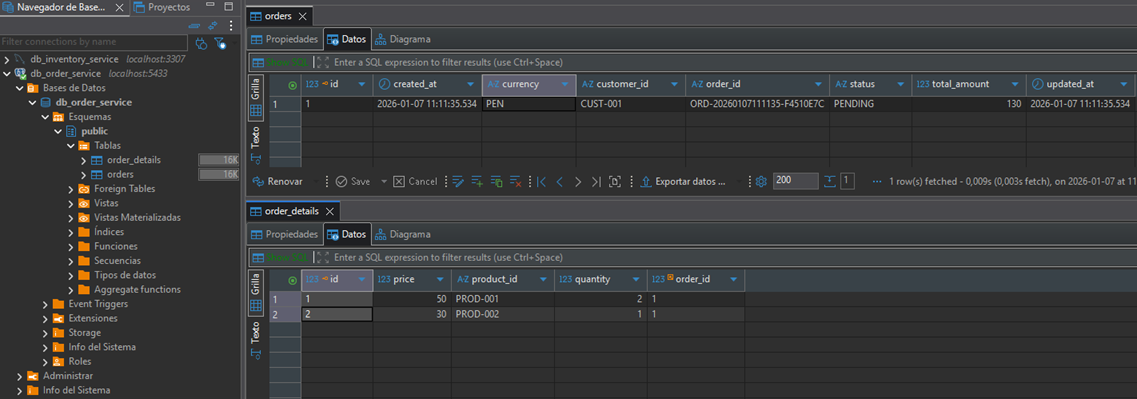
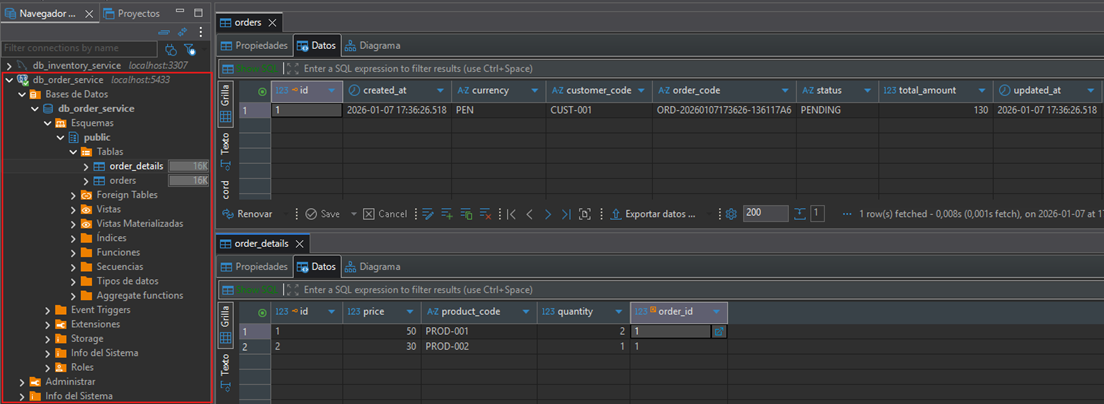
Probando Order Service

Changed region(s): [[0.0, 0.0, 1.0, 1.0]]

diff --git a/README.md b/README.md
@@ -1311,8 +1311,6 @@ public class OrderController {
 }
 ````
 
-------------------------------------------------------------------------------------------------------------------------
-
 ## Probando Order Service
 
 Luego de ejecutar la aplicación exitosamente, vemos que se nos crea el topic `order.created` en el cluster de
@@ -1325,8 +1323,8 @@ order.created
 
 Como hasta el momento no tenemos ningún consumidor que esté pendiente del topic `order.created` dentro de los archivos
 de instalación de Kafka, en nuestro caso, dentro del contenedor de kafka, viene el script de shell llamado
-`kafka-console-consumer.sh` que nos ayudará a realizar el consumo. Así que ejecutamos el siguiente comando en consola
-y veremos que nuestra consola se queda esperando por los mensajes:
+`kafka-console-consumer.sh` que nos ayudará a realizar el consumo de de eventos según el topic que especifiquemos.
+Así que ejecutamos el siguiente comando en consola y veremos que nuestra consola se queda esperando por los mensajes:
 
 ````bash
 $ docker container exec -it c-kafka-saga /opt/kafka/bin/kafka-console-consumer.sh --topic order.created --bootstrap-server localhost:9092
@@ -1335,30 +1333,30 @@ $ docker container exec -it c-kafka-saga /opt/kafka/bin/kafka-console-consumer.s
 ### Creación de una orden
 
 ````bash
-$ curl -v -X POST -H "Content-type: application/json" -d "{\"customerId\": \"CUST-001\", \"currency\": \"PEN\", \"items\": [{\"productId\": \"PROD-001\", \"quantity\": 2, \"price\": 50.00}, {\"productId\": \"PROD-002\", \"quantity\": 1, \"price\": 30.00}]}" http://localhost:8081/api/v1/orders | jq
+$ curl -v -X POST -H "Content-type: application/json" -d "{\"customerCode\": \"CUST-001\", \"currency\": \"PEN\", \"items\": [{\"productCode\": \"PROD-001\", \"quantity\": 2, \"price\": 50.00}, {\"productCode\": \"PROD-002\", \"quantity\": 1, \"price\": 30.00}]}" http://localhost:8081/api/v1/orders | jq
 >
 < HTTP/1.1 202
 < Content-Type: application/json
 < Transfer-Encoding: chunked
-< Date: Wed, 07 Jan 2026 16:11:35 GMT
+< Date: Wed, 07 Jan 2026 22:36:26 GMT
 <
 {
-  "orderId": "ORD-20260107111135-F4510E7C",
-  "customerId": "CUST-001",
+  "orderCode": "ORD-20260107173626-136117A6",
+  "customerCode": "CUST-001",
   "totalAmount": 130.00,
   "currency": "PEN",
   "status": "PENDING",
-  "createdAt": "2026-01-07T11:11:35.534419",
-  "updatedAt": "2026-01-07T11:11:35.534419",
+  "createdAt": "2026-01-07T17:36:26.518543",
+  "updatedAt": "2026-01-07T17:36:26.518543",
   "items": [
     {
-      "productId": "PROD-001",
+      "productCode": "PROD-001",
       "quantity": 2,
       "price": 50.00,
       "subtotal": 100.00
     },
     {
-      "productId": "PROD-002",
+      "productCode": "PROD-002",
       "quantity": 1,
       "price": 30.00,
       "subtotal": 30.00
@@ -1370,172 +1368,81 @@ $ curl -v -X POST -H "Content-type: application/json" -d "{\"customerId\": \"CUS
 Verificamos el log del IDE de IntelliJ IDEA
 
 ````bash
-2026-01-07T11:11:35.487-05:00  INFO 22132 --- [order-service] [nio-8081-exec-4] d.m.o.app.controller.OrderController     : Se recibió una solicitud de creación de orden para el cliente: CUST-001
-2026-01-07T11:11:35.496-05:00  INFO 22132 --- [order-service] [nio-8081-exec-4] d.m.o.app.service.impl.OrderServiceImpl  : Creando order para cliente: CUST-001
-2026-01-07T11:11:35.541-05:00 DEBUG 22132 --- [order-service] [nio-8081-exec-4] org.hibernate.SQL                        : 
+2026-01-07T17:36:26.477-05:00  INFO 12640 --- [order-service] [nio-8081-exec-1] d.m.o.app.controller.OrderController     : Se recibió una solicitud de creación de orden para el cliente: CUST-001
+2026-01-07T17:36:26.486-05:00  INFO 12640 --- [order-service] [nio-8081-exec-1] d.m.o.app.service.impl.OrderServiceImpl  : Creando order para cliente: CUST-001
+2026-01-07T17:36:26.525-05:00 DEBUG 12640 --- [order-service] [nio-8081-exec-1] org.hibernate.SQL                        : 
     insert 
     into
         orders
-        (created_at, currency, customer_id, order_id, status, total_amount, updated_at) 
+        (created_at, currency, customer_code, order_code, status, total_amount, updated_at) 
     values
         (?, ?, ?, ?, ?, ?, ?)
-2026-01-07T11:11:35.583-05:00 DEBUG 22132 --- [order-service] [nio-8081-exec-4] org.hibernate.SQL                        : 
+2026-01-07T17:36:26.560-05:00 DEBUG 12640 --- [order-service] [nio-8081-exec-1] org.hibernate.SQL                        : 
     insert 
     into
         order_details
-        (order_id, price, product_id, quantity) 
+        (order_id, price, product_code, quantity) 
     values
         (?, ?, ?, ?)
-2026-01-07T11:11:35.586-05:00 DEBUG 22132 --- [order-service] [nio-8081-exec-4] org.hibernate.SQL                        : 
+2026-01-07T17:36:26.563-05:00 DEBUG 12640 --- [order-service] [nio-8081-exec-1] org.hibernate.SQL                        : 
     insert 
     into
         order_details
-        (order_id, price, product_id, quantity) 
+        (order_id, price, product_code, quantity) 
     values
         (?, ?, ?, ?)
-2026-01-07T11:11:35.589-05:00  INFO 22132 --- [order-service] [nio-8081-exec-4] d.m.o.app.service.impl.OrderServiceImpl  : Orden creado con ID 1 y con orderId ORD-20260107111135-F4510E7C
-2026-01-07T11:11:35.611-05:00  INFO 22132 --- [order-service] [nio-8081-exec-4] o.a.k.clients.producer.ProducerConfig    : ProducerConfig values: 
+2026-01-07T17:36:26.567-05:00  INFO 12640 --- [order-service] [nio-8081-exec-1] d.m.o.app.service.impl.OrderServiceImpl  : Orden creado con ID: 1 | con orderCode: ORD-20260107173626-136117A6
+2026-01-07T17:36:26.585-05:00  INFO 12640 --- [order-service] [nio-8081-exec-1] o.a.k.clients.producer.ProducerConfig    : ProducerConfig values: 
 	acks = -1
 	auto.include.jmx.reporter = true
-	batch.size = 16384
-	bootstrap.servers = [localhost:9092]
-	buffer.memory = 33554432
-	client.dns.lookup = use_all_dns_ips
-	client.id = order-service-producer-1
-	compression.gzip.level = -1
-	compression.lz4.level = 9
-	compression.type = none
-	compression.zstd.level = 3
-	connections.max.idle.ms = 540000
-	delivery.timeout.ms = 120000
-	enable.idempotence = true
-	enable.metrics.push = true
-	interceptor.classes = []
-	key.serializer = class org.apache.kafka.common.serialization.StringSerializer
-	linger.ms = 0
-	max.block.ms = 60000
-	max.in.flight.requests.per.connection = 5
-	max.request.size = 1048576
-	metadata.max.age.ms = 300000
-	metadata.max.idle.ms = 300000
-	metadata.recovery.strategy = none
-	metric.reporters = []
-	metrics.num.samples = 2
-	metrics.recording.level = INFO
-	metrics.sample.window.ms = 30000
-	partitioner.adaptive.partitioning.enable = true
-	partitioner.availability.timeout.ms = 0
-	partitioner.class = null
-	partitioner.ignore.keys = false
-	receive.buffer.bytes = 32768
-	reconnect.backoff.max.ms = 1000
-	reconnect.backoff.ms = 50
-	request.timeout.ms = 30000
-	retries = 2147483647
-	retry.backoff.max.ms = 1000
-	retry.backoff.ms = 100
-	sasl.client.callback.handler.class = null
-	sasl.jaas.config = null
-	sasl.kerberos.kinit.cmd = /usr/bin/kinit
-	sasl.kerberos.min.time.before.relogin = 60000
-	sasl.kerberos.service.name = null
-	sasl.kerberos.ticket.renew.jitter = 0.05
-	sasl.kerberos.ticket.renew.window.factor = 0.8
-	sasl.login.callback.handler.class = null
-	sasl.login.class = null
-	sasl.login.connect.timeout.ms = null
-	sasl.login.read.timeout.ms = null
-	sasl.login.refresh.buffer.seconds = 300
-	sasl.login.refresh.min.period.seconds = 60
-	sasl.login.refresh.window.factor = 0.8
-	sasl.login.refresh.window.jitter = 0.05
-	sasl.login.retry.backoff.max.ms = 10000
-	sasl.login.retry.backoff.ms = 100
-	sasl.mechanism = GSSAPI
-	sasl.oauthbearer.clock.skew.seconds = 30
-	sasl.oauthbearer.expected.audience = null
-	sasl.oauthbearer.expected.issuer = null
-	sasl.oauthbearer.header.urlencode = false
-	sasl.oauthbearer.jwks.endpoint.refresh.ms = 3600000
-	sasl.oauthbearer.jwks.endpoint.retry.backoff.max.ms = 10000
-	sasl.oauthbearer.jwks.endpoint.retry.backoff.ms = 100
-	sasl.oauthbearer.jwks.endpoint.url = null
-	sasl.oauthbearer.scope.claim.name = scope
-	sasl.oauthbearer.sub.claim.name = sub
-	sasl.oauthbearer.token.endpoint.url = null
-	security.protocol = PLAINTEXT
-	security.providers = null
-	send.buffer.bytes = 131072
-	socket.connection.setup.timeout.max.ms = 30000
-	socket.connection.setup.timeout.ms = 10000
-	ssl.cipher.suites = null
-	ssl.enabled.protocols = [TLSv1.2, TLSv1.3]
-	ssl.endpoint.identification.algorithm = https
-	ssl.engine.factory.class = null
-	ssl.key.password = null
-	ssl.keymanager.algorithm = SunX509
-	ssl.keystore.certificate.chain = null
-	ssl.keystore.key = null
-	ssl.keystore.location = null
-	ssl.keystore.password = null
-	ssl.keystore.type = JKS
-	ssl.protocol = TLSv1.3
-	ssl.provider = null
-	ssl.secure.random.implementation = null
-	ssl.trustmanager.algorithm = PKIX
-	ssl.truststore.certificates = null
-	ssl.truststore.location = null
-	ssl.truststore.password = null
-	ssl.truststore.type = JKS
-	transaction.timeout.ms = 60000
-	transactional.id = null
+	...
 	value.serializer = class org.springframework.kafka.support.serializer.JsonSerializer
 
-2026-01-07T11:11:35.660-05:00  INFO 22132 --- [order-service] [nio-8081-exec-4] o.a.k.c.t.i.KafkaMetricsCollector        : initializing Kafka metrics collector
-2026-01-07T11:11:35.683-05:00  INFO 22132 --- [order-service] [nio-8081-exec-4] o.a.k.clients.producer.KafkaProducer     : [Producer clientId=order-service-producer-1] Instantiated an idempotent producer.
-2026-01-07T11:11:35.712-05:00  INFO 22132 --- [order-service] [nio-8081-exec-4] o.a.kafka.common.utils.AppInfoParser     : Kafka version: 3.9.1
-2026-01-07T11:11:35.712-05:00  INFO 22132 --- [order-service] [nio-8081-exec-4] o.a.kafka.common.utils.AppInfoParser     : Kafka commitId: f745dfdcee2b9851
-2026-01-07T11:11:35.712-05:00  INFO 22132 --- [order-service] [nio-8081-exec-4] o.a.kafka.common.utils.AppInfoParser     : Kafka startTimeMs: 1767802295712
-2026-01-07T11:11:35.735-05:00  INFO 22132 --- [order-service] [vice-producer-1] org.apache.kafka.clients.Metadata        : [Producer clientId=order-service-producer-1] Cluster ID: 5L6g3nShT-eMCtK--X86sw
-2026-01-07T11:11:35.779-05:00  INFO 22132 --- [order-service] [nio-8081-exec-4] d.m.o.a.e.publisher.OrderEventPublisher  : Se publicó el evento ORDER_CREATED, en el topic order.created, para la orden ORD-20260107111135-F4510E7C
-2026-01-07T11:11:35.800-05:00  INFO 22132 --- [order-service] [nio-8081-exec-4] d.m.o.app.controller.OrderController     : Orden creada exitosamente: ORD-20260107111135-F4510E7C
-2026-01-07T11:11:35.850-05:00  INFO 22132 --- [order-service] [vice-producer-1] o.a.k.c.p.internals.TransactionManager   : [Producer clientId=order-service-producer-1] ProducerId set to 0 with epoch 0 
+2026-01-07T17:36:26.609-05:00  INFO 12640 --- [order-service] [nio-8081-exec-1] o.a.k.c.t.i.KafkaMetricsCollector        : initializing Kafka metrics collector
+2026-01-07T17:36:26.632-05:00  INFO 12640 --- [order-service] [nio-8081-exec-1] o.a.k.clients.producer.KafkaProducer     : [Producer clientId=order-service-producer-1] Instantiated an idempotent producer.
+2026-01-07T17:36:26.654-05:00  INFO 12640 --- [order-service] [nio-8081-exec-1] o.a.kafka.common.utils.AppInfoParser     : Kafka version: 3.9.1
+2026-01-07T17:36:26.654-05:00  INFO 12640 --- [order-service] [nio-8081-exec-1] o.a.kafka.common.utils.AppInfoParser     : Kafka commitId: f745dfdcee2b9851
+2026-01-07T17:36:26.654-05:00  INFO 12640 --- [order-service] [nio-8081-exec-1] o.a.kafka.common.utils.AppInfoParser     : Kafka startTimeMs: 1767825386653
+2026-01-07T17:36:26.670-05:00  INFO 12640 --- [order-service] [vice-producer-1] org.apache.kafka.clients.Metadata        : [Producer clientId=order-service-producer-1] Cluster ID: 5L6g3nShT-eMCtK--X86sw
+2026-01-07T17:36:26.671-05:00  INFO 12640 --- [order-service] [vice-producer-1] o.a.k.c.p.internals.TransactionManager   : [Producer clientId=order-service-producer-1] ProducerId set to 1 with epoch 0
+2026-01-07T17:36:26.711-05:00  INFO 12640 --- [order-service] [nio-8081-exec-1] d.m.o.a.e.publisher.OrderEventPublisher  : Se publicó el evento ORDER_CREATED, en el topic order.created, para la orden ORD-20260107173626-136117A6
+2026-01-07T17:36:26.735-05:00  INFO 12640 --- [order-service] [nio-8081-exec-1] d.m.o.app.controller.OrderController     : Orden creada exitosamente: ORD-20260107173626-136117A6
 ````
 
-Verificamos la consola del consumidor que dejamos escuchando al topic `order.created`.
+Verificamos que la consola del consumidor ha escuchado el evento que acabamos de publicar al topic `order.created`.
 
 ````bash
 $ docker container exec -it c-kafka-saga /opt/kafka/bin/kafka-console-consumer.sh --topic order.created --bootstrap-server localhost:9092
-{"eventId":"fdb56556-1753-431c-b3d4-34987232be17","eventType":"ORDER_CREATED","timestamp":[2026,1,7,11,11,35,592386300],"orderId":"ORD-20260107111135-F4510E7C","payload":{"customerId":"CUST-001","totalAmount":130.00,"currency":"PEN","items":[{"productId":"PROD-001","quantity":2,"price":50.00},{"productId":"PROD-002","quantity":1,"price":30.00}]}}
+{"eventId":"505ee8ae-0318-4fbe-b0f0-88b54575f26b","eventType":"ORDER_CREATED","timestamp":[2026,1,7,17,36,26,570355300],"orderCode":"ORD-20260107173626-136117A6","payload":{"customerCode":"CUST-001","totalAmount":130.00,"currency":"PEN","items":[{"productCode":"PROD-001","quantity":2,"price":50.00},{"productCode":"PROD-002","quantity":1,"price":30.00}]}}
 ````
 
 ### Consultando una orden
 
 ````bash
-$ curl -v http://localhost:8081/api/v1/orders/ORD-20260107111135-F4510E7C | jq
+$ curl -v http://localhost:8081/api/v1/orders/ORD-20260107173626-136117A6 | jq
 >
 < HTTP/1.1 200
 < Content-Type: application/json
 < Transfer-Encoding: chunked
-< Date: Wed, 07 Jan 2026 16:28:10 GMT
+< Date: Wed, 07 Jan 2026 22:42:16 GMT
 <
 {
-  "orderId": "ORD-20260107111135-F4510E7C",
-  "customerId": "CUST-001",
+  "orderCode": "ORD-20260107173626-136117A6",
+  "customerCode": "CUST-001",
   "totalAmount": 130.00,
   "currency": "PEN",
   "status": "PENDING",
-  "createdAt": "2026-01-07T11:11:35.534419",
-  "updatedAt": "2026-01-07T11:11:35.534419",
+  "createdAt": "2026-01-07T17:36:26.518543",
+  "updatedAt": "2026-01-07T17:36:26.518543",
   "items": [
     {
-      "productId": "PROD-001",
+      "productCode": "PROD-001",
       "quantity": 2,
       "price": 50.00,
       "subtotal": 100.00
     },
     {
-      "productId": "PROD-002",
+      "productCode": "PROD-002",
       "quantity": 1,
       "price": 30.00,
       "subtotal": 30.00
@@ -1547,48 +1454,36 @@ $ curl -v http://localhost:8081/api/v1/orders/ORD-20260107111135-F4510E7C | jq
 Verificando log del IDE de IntelliJ IDEA
 
 ````bash
-2026-01-07T11:28:10.568-05:00  INFO 22132 --- [order-service] [nio-8081-exec-2] d.m.o.app.controller.OrderController     : Se recibió una solicitud de orden para: ORD-20260107111135-F4510E7C
-2026-01-07T11:28:10.573-05:00  INFO 22132 --- [order-service] [nio-8081-exec-2] d.m.o.app.service.impl.OrderServiceImpl  : Recuperando orden ORD-20260107111135-F4510E7C
-2026-01-07T11:28:10.696-05:00 DEBUG 22132 --- [order-service] [nio-8081-exec-2] org.hibernate.SQL                        : 
+2026-01-07T17:42:15.946-05:00  INFO 12640 --- [order-service] [nio-8081-exec-3] d.m.o.app.controller.OrderController     : Recuperar la orden con orderCode: ORD-20260107173626-136117A6
+2026-01-07T17:42:15.949-05:00  INFO 12640 --- [order-service] [nio-8081-exec-3] d.m.o.app.service.impl.OrderServiceImpl  : Recuperando orden: ORD-20260107173626-136117A6
+2026-01-07T17:42:16.048-05:00 DEBUG 12640 --- [order-service] [nio-8081-exec-3] org.hibernate.SQL                        : 
     select
         o1_0.id,
         o1_0.created_at,
         o1_0.currency,
-        o1_0.customer_id,
-        o1_0.order_id,
+        o1_0.customer_code,
+        o1_0.order_code,
         o1_0.status,
         o1_0.total_amount,
         o1_0.updated_at 
     from
         orders o1_0 
     where
-        o1_0.order_id=?
-2026-01-07T11:28:10.723-05:00 DEBUG 22132 --- [order-service] [nio-8081-exec-2] org.hibernate.SQL                        : 
+        o1_0.order_code=?
+2026-01-07T17:42:16.066-05:00 DEBUG 12640 --- [order-service] [nio-8081-exec-3] org.hibernate.SQL                        : 
     select
         od1_0.order_id,
         od1_0.id,
         od1_0.price,
-        od1_0.product_id,
+        od1_0.product_code,
         od1_0.quantity 
     from
         order_details od1_0 
     where
-        od1_0.order_id=? 
+        od1_0.order_id=?
 ````
 
 Si revisamos la base de datos del microservicio `order-service` veremos que los datos se han guardado correctamente
 
 ![01.png](assets/01-order-service/01.png)
-
-Recordemos que a nivel de base de datos estamos trabajando con los tradicionales id incrementales, en ese sentido:
-
-- La PK de la tabla orders es id.
-- La PK de la tabla order_details es id.
-- La FK en la tabla order_details que hace referencia a la tabla orders es order_id.
-
-Estas claves son importantes para manejar las relaciones, consultas, etc. a nivel de base de datos. Mientras que,
-por otro lado, en la tabla orders hay una columna llamada order_id que es del tipo varchar, es una columna que servirá
-como "clave única" para el registro de la orden, es este dato el que estará viajando de manera externa, el que se
-expondrá en los endpoints o el que usará el cliente para consultar una orden. Para mejor claridad, podríamos haberle
-dado otro nombre para no confundirlo con claves foráneas, pero bueno, por eso hago esta aclaración.
 
